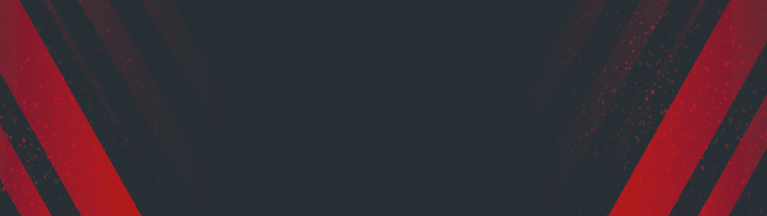
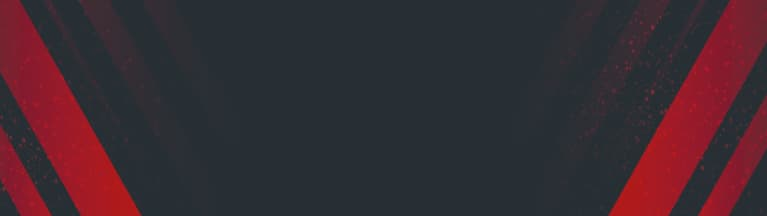
dark-theme

diff --git a/src/sass/layouts/_mainPageHeader.scss b/src/sass/layouts/_mainPageHeader.scss
@@ -13,7 +13,7 @@ $desktop: 1280px;
 .search-form {
   display: flex;
   justify-content: space-between;
-  border-bottom: 1px solid var(--white);
+  border-bottom: 1px solid var(--header-white);
   margin-bottom: -1px;
 
   width: 280px;
@@ -55,14 +55,14 @@ $desktop: 1280px;
 
   background: transparent;
   outline: none;
-  color: var(--white);
+  color: var(--header-white);
   font-style: normal;
   font-weight: 400;
   font-size: 14px;
   line-height: 16px;
 
   &::placeholder {
-    color: var(--white);
+    color: var(--header-white);
   }
 }
 
@@ -71,7 +71,7 @@ $desktop: 1280px;
   display: flex;
   position: relative;
   z-index: 2;
-  background: none;
+  background-color: transparent;
   box-shadow: none;
   border: none;
   cursor: pointer;
@@ -82,4 +82,12 @@ $desktop: 1280px;
 .submit-btn__icon {
   margin-left: auto;
   transform: translateY(5px);
+}
+
+.submit-btn__icon:hover {
+  transition: color 250ms var(--transition-timing);
+  transition: text-shadow 200ms var(--transition-timing);
+  color: var(--attention);
+  box-shadow: 0px -4px 5px 0px rgb(254, 254, 254),
+    0px -1px 1px 0px rgb(254, 254, 254);
 }

diff --git a/src/sass/components/_button-change-theme.scss b/src/sass/components/_button-change-theme.scss
@@ -1,28 +1,30 @@
 .theme-btn {
   position: absolute;
-  z-index: 3;
-  top: 20%;
-  left: 93%;
+  z-index: 10;
+  top: 160px;
+  right: 40px;
 
   //   outline: solid 1 tomato;
-  padding: 5px;
+  padding: 10px;
   background: none;
   box-shadow: none;
   border: none;
   cursor: pointer;
   border-radius: 10;
-  //   box-shadow: 0px -4px 5px 0px rgb(254, 254, 254),
-  //     0px -1px 1px 0px rgb(254, 254, 254);
-  //   background-color: var(--white);
 
   &:hover,
   &:focus {
-    // background-color: var(--white);
-    box-shadow: 0px -4px 5px 0px rgb(254, 254, 254),
-      0px -1px 1px 0px rgb(254, 254, 254);
-    // background-color: var(--white);
+    .icon-btn {
+      box-shadow: 0px -4px 5px 0px rgb(254, 254, 254),
+        0px -1px 1px 0px rgb(254, 254, 254);
+    }
   }
 }
 
 .icon-btn {
+  fill: black;
+  background-color: white;
+  border: solid 1;
+  border-color: white;
+  border-radius: 10;
 }

diff --git a/src/sass/layouts/_header.scss b/src/sass/layouts/_header.scss
@@ -20,6 +20,9 @@
     height: 216px;
   }
 }
+.dark-image {
+  background-image: url(../images/header-img/dark-header.jpg);
+}
 .header-container {
   height: 100%;
   display: flex;
@@ -45,7 +48,7 @@
   letter-spacing: 0em;
   text-align: center;
 
-  color: var(--white);
+  color: var(--header-white);
 
   @include mq('tablet') {
     display: inline;
@@ -66,7 +69,7 @@
   padding: 10px 10px;
   display: block;
   align-items: center;
-  color: var(--white);
+  color: var(--header-white);
   font-family: var(--main-font);
   font-weight: 500;
   font-size: 13px;

diff --git a/src/js/changeTheme.js b/src/js/changeTheme.js
@@ -2,12 +2,13 @@ const refs = {
   //   gallery: document.querySelector('.gallery__item'),
   //   body: document.querySelector('body'),
   button: document.querySelector('.theme-btn'),
+  header: document.querySelector('header'),
 };
 
-console.log('body', document.body);
+console.log(header);
 refs.button.addEventListener('click', changeTheme);
 
 function changeTheme(event) {
   document.body.classList.toggle('dark-theme');
-  //   refs.galleryItems.classList.toggle('dark-gallery');
+  refs.header.classList.toggle('dark-image');
 }

diff --git a/src/sass/base/_base.scss b/src/sass/base/_base.scss
@@ -14,6 +14,12 @@ body {
 
 .dark-theme {
   --main-background-color: rgb(25, 25, 25);
+  --white: rgb(0, 0, 0);
+  --main-text: white;
+  --main-text: white;
+  --team-modal-background: rgb(25, 25, 25);
+  --main-background-color: rgb(0, 0, 0);
+  --secondary-background-color: rgb(0, 0, 0);
   --movie-card-shadow: 0 1px 10px rgb(255, 255, 255),
     -23px 0 20px -23px rgba(255, 255, 255),
     23px 0 20px -23px rgba(209, 203, 203), 0 0 40px rgba(255, 240, 240);

diff --git a/src/sass/utils/_variables.scss b/src/sass/utils/_variables.scss
@@ -3,6 +3,7 @@
   --main-font: 'Roboto', sans-serif;
 
   // COLORS
+  --header-white: #ffffff;
   --main-background-color: #f5f4fa;
   --secondary-background-color: #f7f7f7;
   --backdrop-color: rgba(0, 0, 0, 0.2);
